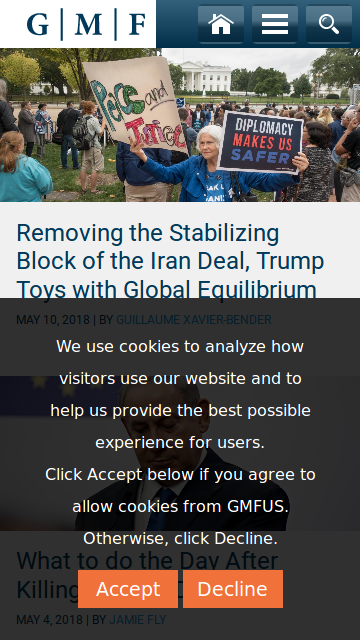
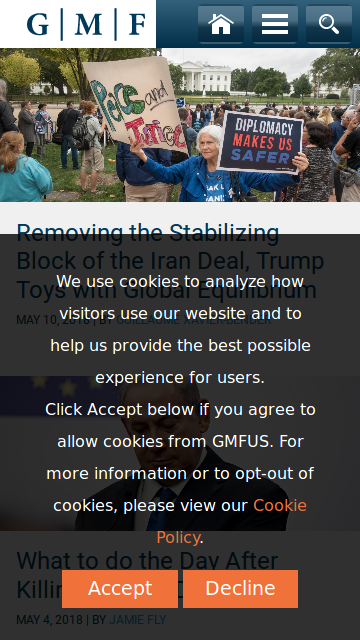
american spelling in screenshots

diff --git a/GDPR.md b/GDPR.md
@@ -49,7 +49,7 @@ To download it, you'll need to clone the repository using git. See the [Version 
 
 Our client, The German Marshall Fund of the United States ([GMFUS](http://gmfus.org/)), found that they needed to be GDPR compliant and were happy to be the test bed for the F1 GDPR module.
 
-Once the module was installed, the only thing that needed to be updated was shortening "The German Marshall Fund of the United States" (their site name) to "GMFUS" in the pop-up text. Here's what the popup looks like on desktop and mobile:
+Once the module was installed, the only items that needed updating were shortening "The German Marshall Fund of the United States" to "GMFUS" and changing "analyse" (UK) to "analyze" (US) in the pop-up text. Here's what the popup looks like on desktop and mobile:
 
 ![Desktop consent popup](https://raw.githubusercontent.com/abielefeldt/gdpr-blogpost/master/desktop-initial.png)  
 *The consent pop-up on desktop*
@@ -72,5 +72,5 @@ The module comes with an HTML file that has code for embedding a button in a pag
 
 ### Compliance Goes Beyond Google Analytics
 
-This blog post and accompanying module largely only covers the role of Google Analytics in GDPR compliance. Site owners are responsible for becoming familiar with GDPR and identifying other potentially noncompliant functionality. How else might you be using PII? Don't just throw a pop-up or module on your site and assume you're compliant. Assume the EU will take GDPR compliance seriously and that you are a "big enough fish" to get caught up in it.
+This blog post and accompanying module largely only covers the role of Google Analytics in GDPR compliance. Site owners are responsible for becoming familiar with GDPR and identifying other potentially noncompliant functionality. How else might your site be using PII? Don't just throw a pop-up or module on your site and assume you're compliant. Assume the EU will take GDPR compliance seriously and that you are a "big enough fish" to get caught up in it.
 
